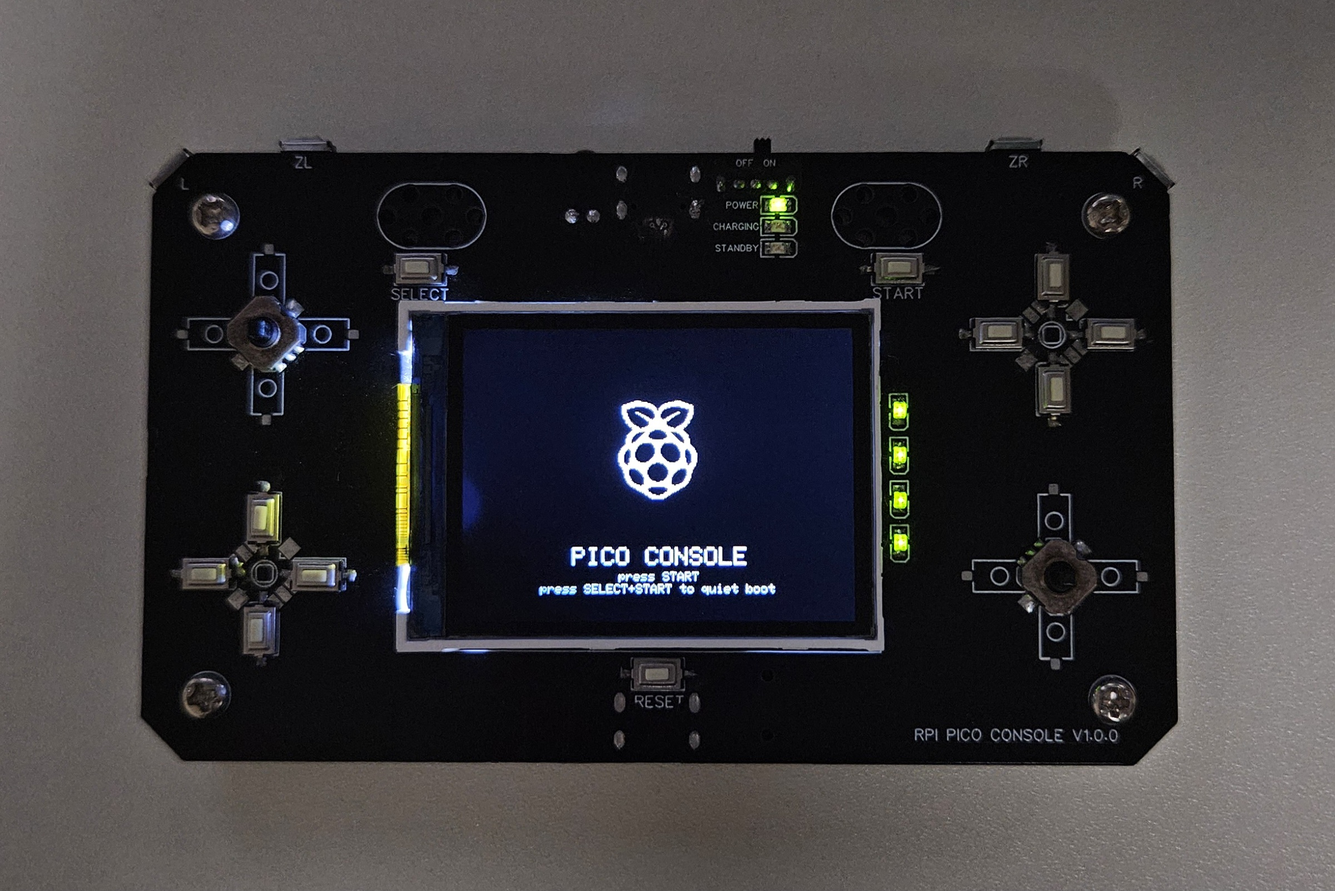
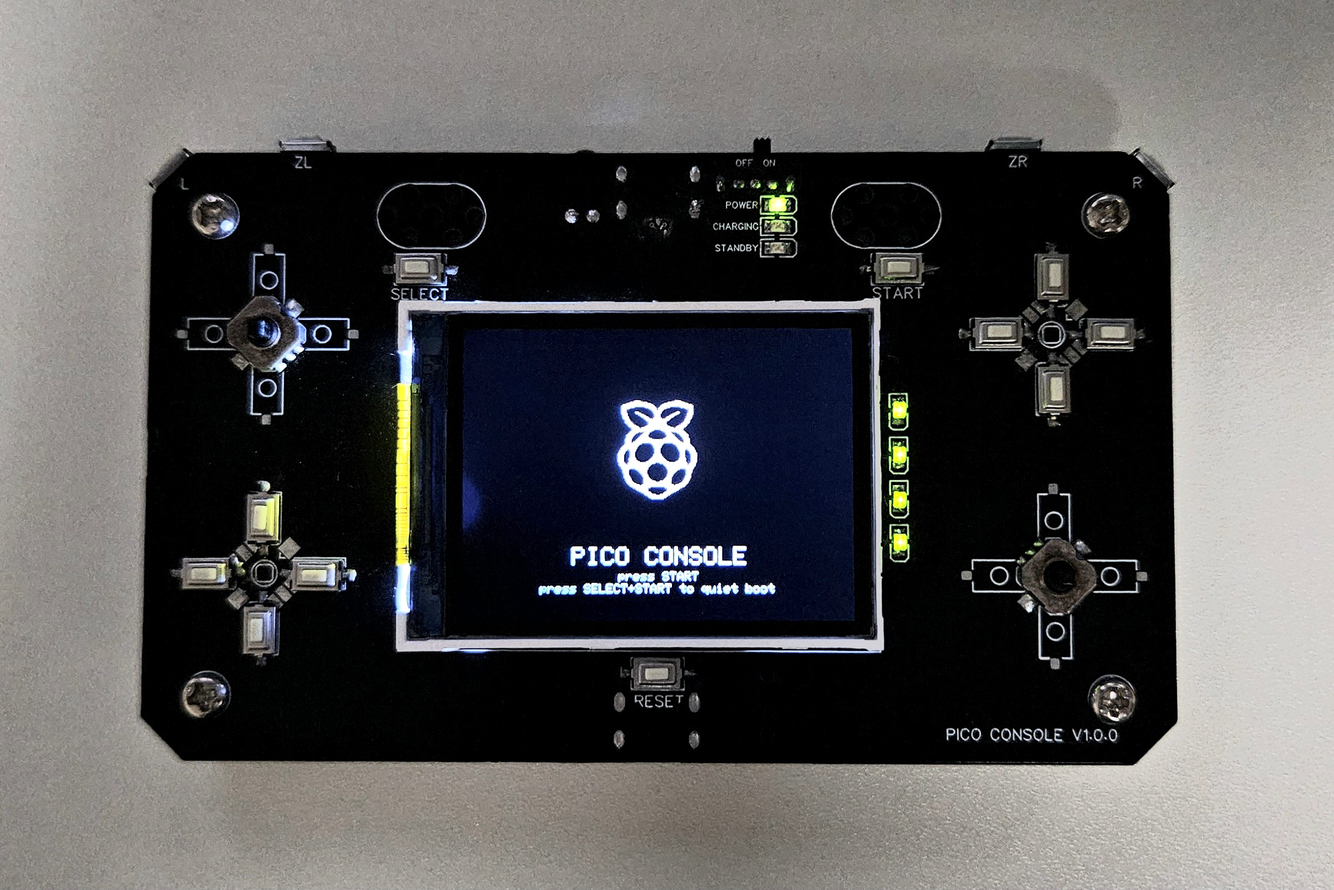
Add schematics, Update front picture

diff --git a/README.md b/README.md
@@ -42,6 +42,14 @@ $ git clone --recurse-submodules https://github.com/Crem2y/pico-console.git
 Back of the console
 ![Back view](doc/back.jpg)
 
+## Schematics
+
+![schematic_1](doc/schematic_1.png)
+
+![schematic_2](doc/schematic_2.png)
+
+![schematic_3](doc/schematic_3.png)
+
 ---
 
 ## License
